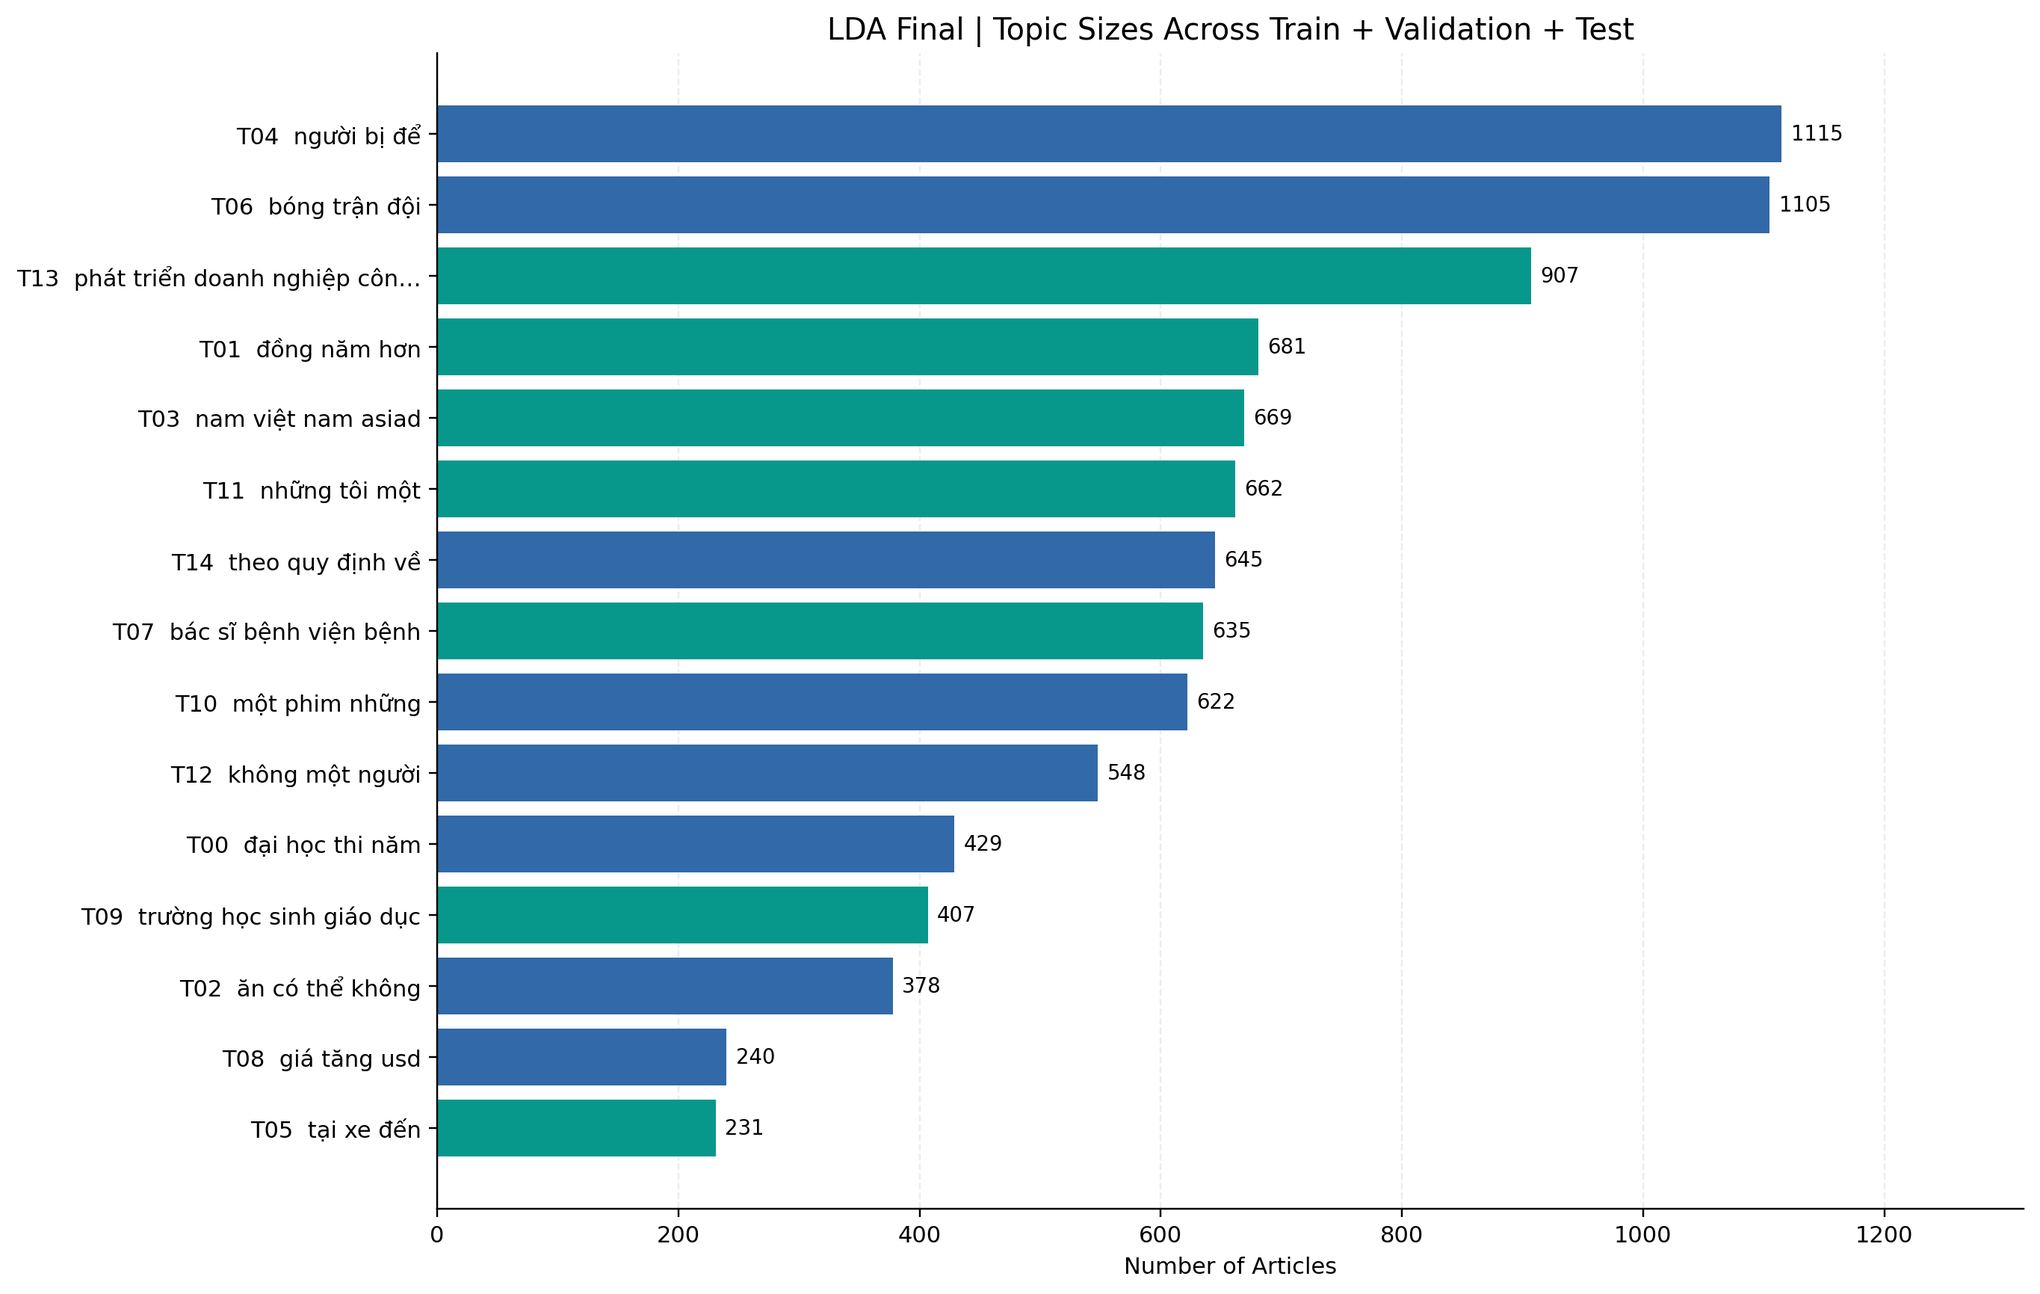
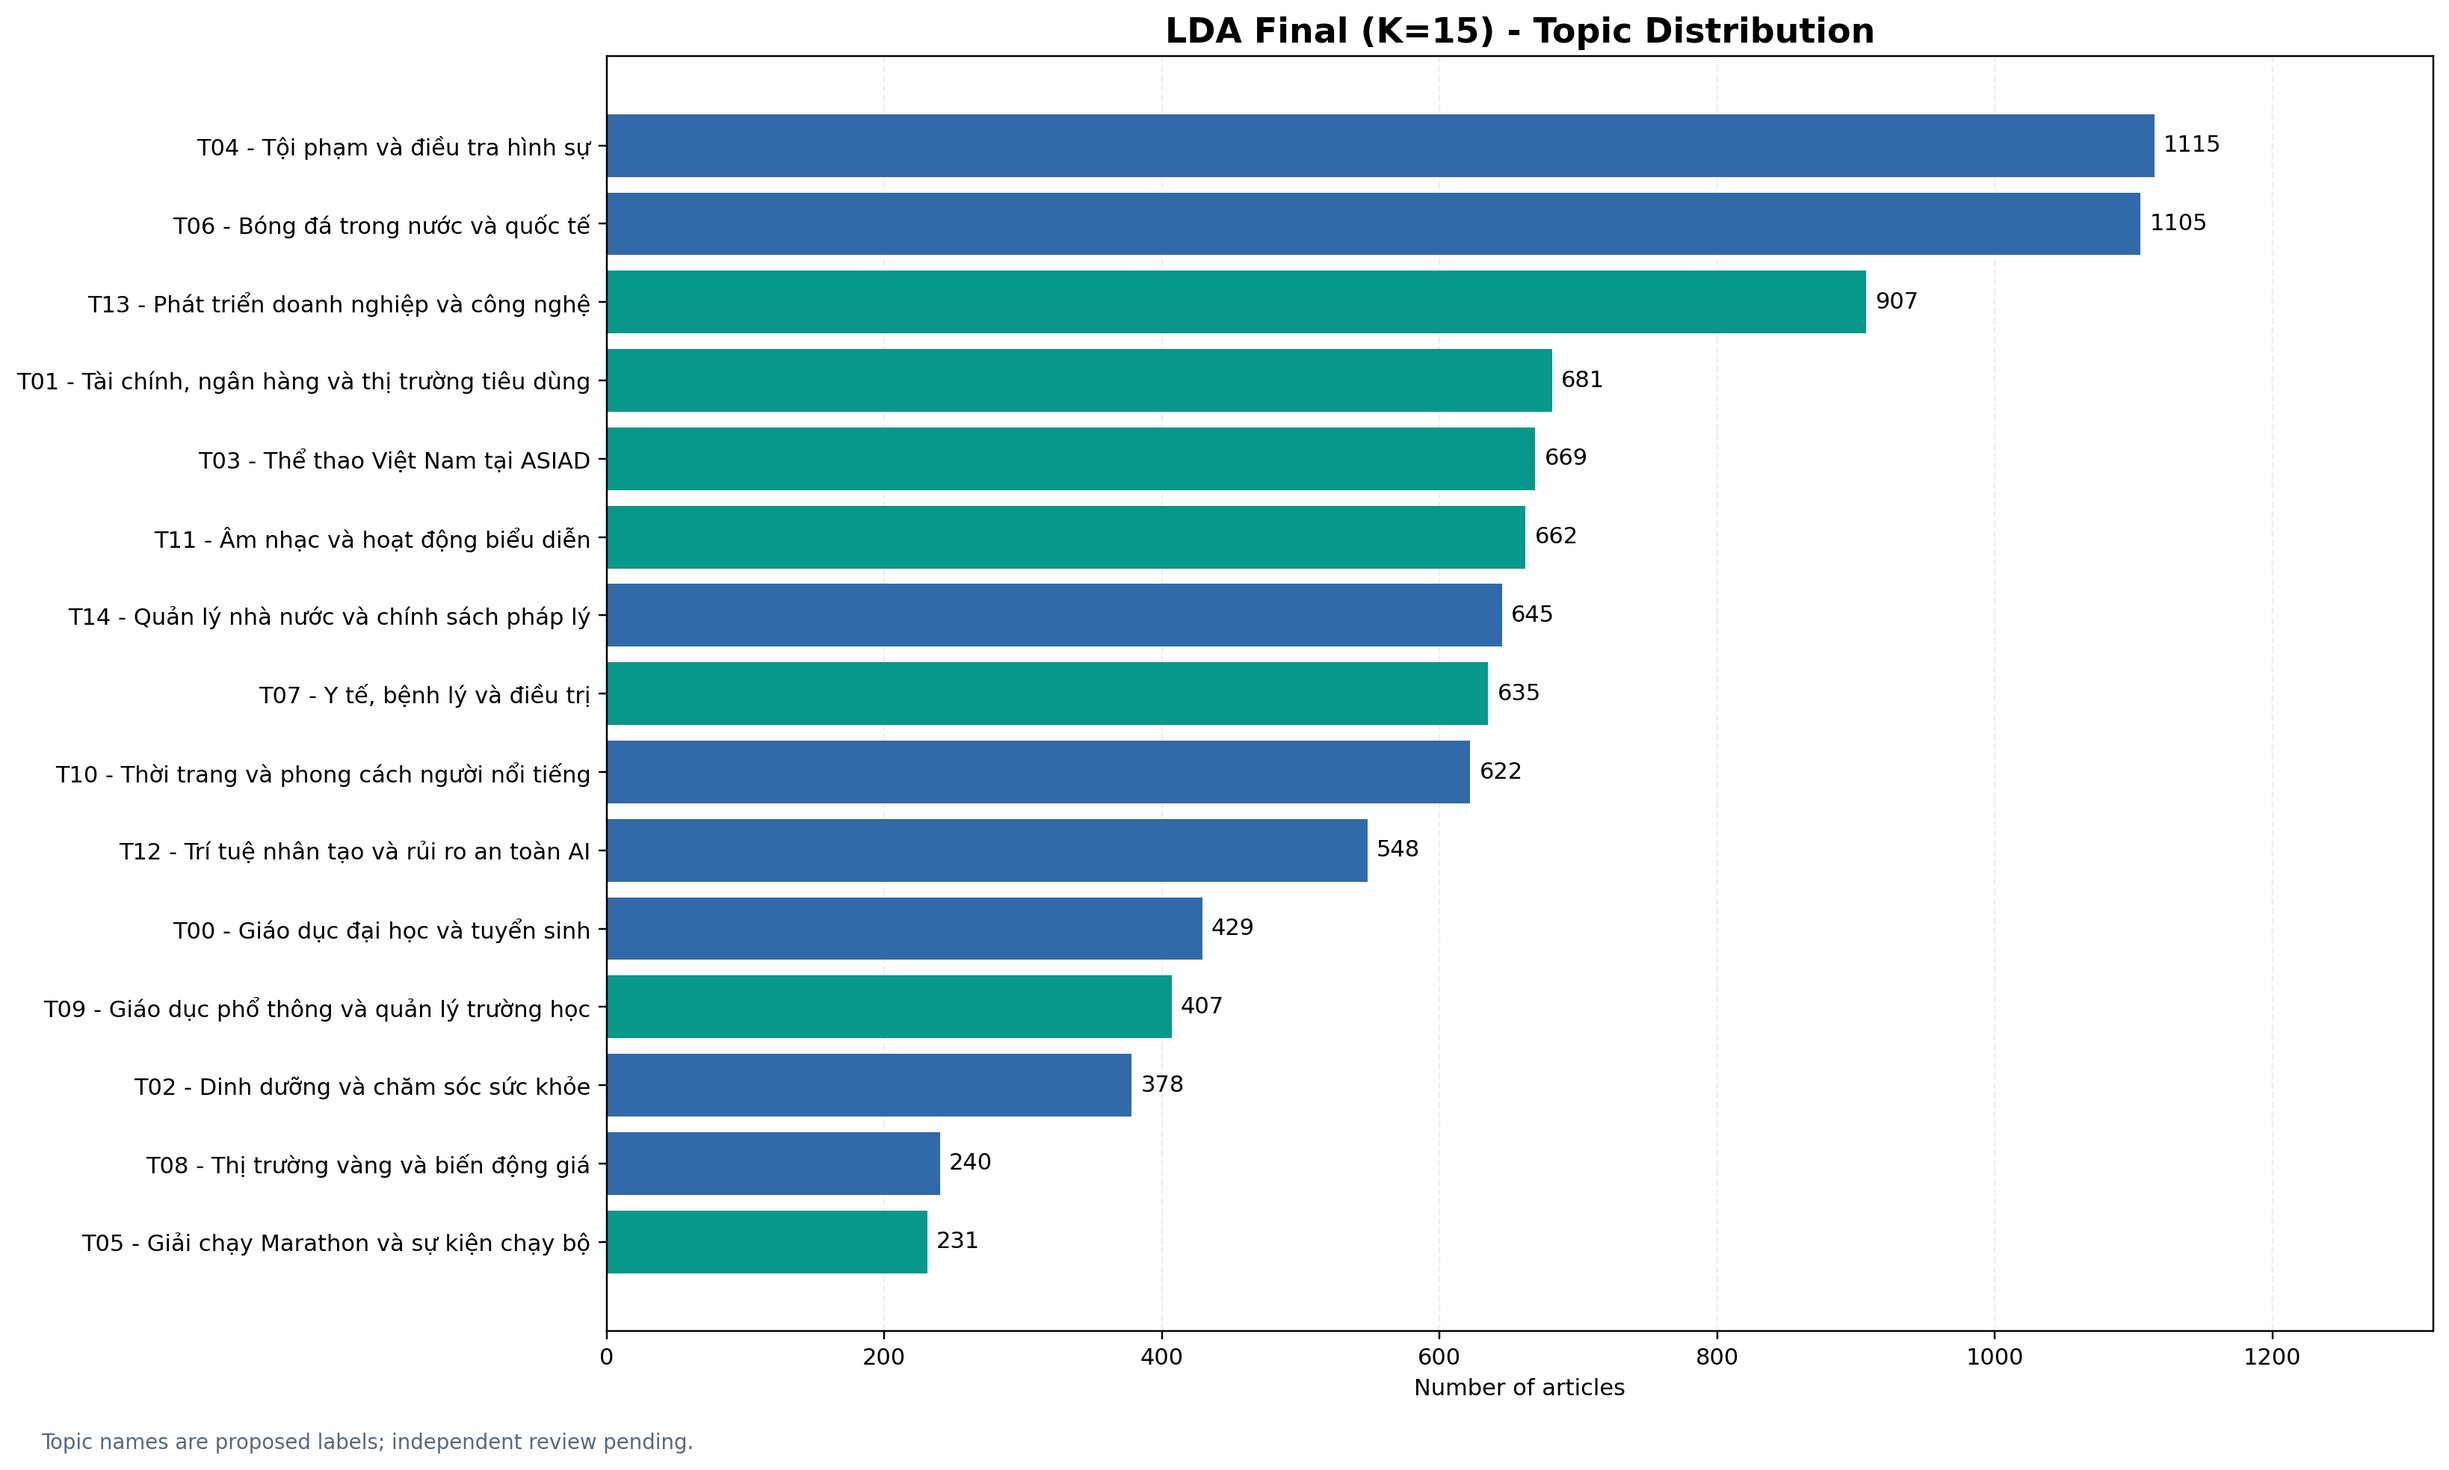
Update LDA F05 F07 with proposed topic labels

Changed region(s): [[0.0311, 0.0624, 0.9963, 0.9983], [0.4048, 0.0, 0.8095, 0.0312], [0.0311, 0.9671, 0.2802, 0.9983]]

diff --git a/refresh_lda_figures.py b/refresh_lda_figures.py
@@ -1,0 +1,164 @@
+import json
+from pathlib import Path
+
+import pandas as pd
+import matplotlib.pyplot as plt
+from matplotlib import patheffects
+
+ROOT = Path.cwd()
+BASE = ROOT / "artifacts/common/lda/lda_k15_seed42"
+OUT = ROOT / "results/lda/figures"
+OUT.mkdir(parents=True, exist_ok=True)
+
+# Load original artifacts
+topics = pd.read_csv(BASE / "topic_summary.csv", encoding="utf-8-sig")
+projection = pd.read_csv(BASE / "projection_2d.csv", encoding="utf-8-sig")
+
+with open(BASE / "topic_display_mapping.json", encoding="utf-8") as f:
+    mapping = json.load(f)
+
+labels = {
+    int(k): v["display_name"]
+    for k, v in mapping["mapping"].items()
+}
+
+assert len(labels) == 15, "Expected 15 topic labels"
+assert topics["document_count"].sum() == 9274
+assert set(topics["topic_id"]) == set(labels)
+
+# Use font supporting Vietnamese characters
+plt.rcParams["font.family"] = "DejaVu Sans"
+plt.rcParams["font.size"] = 10
+plt.rcParams["savefig.dpi"] = 220
+
+# ==========================================
+# F05 - Topic distribution with proper names
+# ==========================================
+
+df = topics.sort_values("document_count").copy()
+
+fig, ax = plt.subplots(figsize=(15, 9))
+
+colors = [
+    "#3269A8" if int(t) % 2 == 0 else "#07988B"
+    for t in df["topic_id"]
+]
+
+bars = ax.barh(
+    range(len(df)),
+    df["document_count"],
+    color=colors
+)
+
+ax.set_yticks(range(len(df)))
+ax.set_yticklabels([
+    f"T{int(t):02d} - {labels[int(t)]}"
+    for t in df["topic_id"]
+])
+
+ax.bar_label(bars, padding=4)
+
+ax.set_xlim(0, df["document_count"].max() * 1.18)
+ax.set_xlabel("Number of articles")
+ax.set_title(
+    "LDA Final (K=15) - Topic Distribution",
+    fontsize=15,
+    weight="bold"
+)
+
+ax.grid(axis="x", linestyle="--", alpha=0.2)
+ax.set_axisbelow(True)
+
+fig.text(
+    0.02, 0.015,
+    "Topic names are proposed labels; independent review pending.",
+    fontsize=9, color="#58677B"
+)
+
+fig.tight_layout(rect=[0, 0.03, 1, 1])
+fig.savefig(
+    OUT / "f05_final_topic_distribution.png",
+    bbox_inches="tight"
+)
+plt.close(fig)
+
+print("DONE F05")
+
+# ==========================================
+# F07 - PCA plot with Vietnamese topic names
+# ==========================================
+
+fig, ax = plt.subplots(figsize=(17, 10))
+palette = plt.get_cmap("tab20")
+
+for i, tid in enumerate(sorted(labels)):
+    points = projection[
+        projection["topic_id"] == tid
+    ]
+
+    color = palette(i % 20)
+
+    ax.scatter(
+        points["x"],
+        points["y"],
+        s=7,
+        alpha=0.45,
+        color=color,
+        label=f"T{tid:02d} - {labels[tid]}",
+        rasterized=True
+    )
+
+    if not points.empty:
+        cx = points["x"].median()
+        cy = points["y"].median()
+
+        text = ax.text(
+            cx, cy, f"T{tid:02d}",
+            ha="center",
+            va="center",
+            fontsize=10,
+            weight="bold",
+            color="black",
+            bbox=dict(
+                facecolor="white",
+                edgecolor="#888888",
+                boxstyle="round,pad=0.25",
+                alpha=0.85
+            ),
+            zorder=10
+        )
+
+ax.set_title(
+    "LDA Final (K=15) - PCA Topic Projection",
+    fontsize=15,
+    weight="bold"
+)
+
+ax.set_xlabel("Principal Component 1")
+ax.set_ylabel("Principal Component 2")
+
+ax.legend(
+    title="Proposed Topic Names",
+    bbox_to_anchor=(1.02, 1),
+    loc="upper left",
+    fontsize=9,
+    markerscale=3
+)
+
+ax.grid(alpha=0.15)
+
+fig.text(
+    0.02, 0.015,
+    "PCA visualization of document-topic probabilities; proposed labels.",
+    fontsize=9, color="#58677B"
+)
+
+fig.tight_layout(rect=[0, 0.03, 0.99, 1])
+fig.savefig(
+    OUT / "f07_final_projection_2d.png",
+    bbox_inches="tight"
+)
+plt.close(fig)
+
+print("DONE F07")
+print("Saved to:", OUT)
